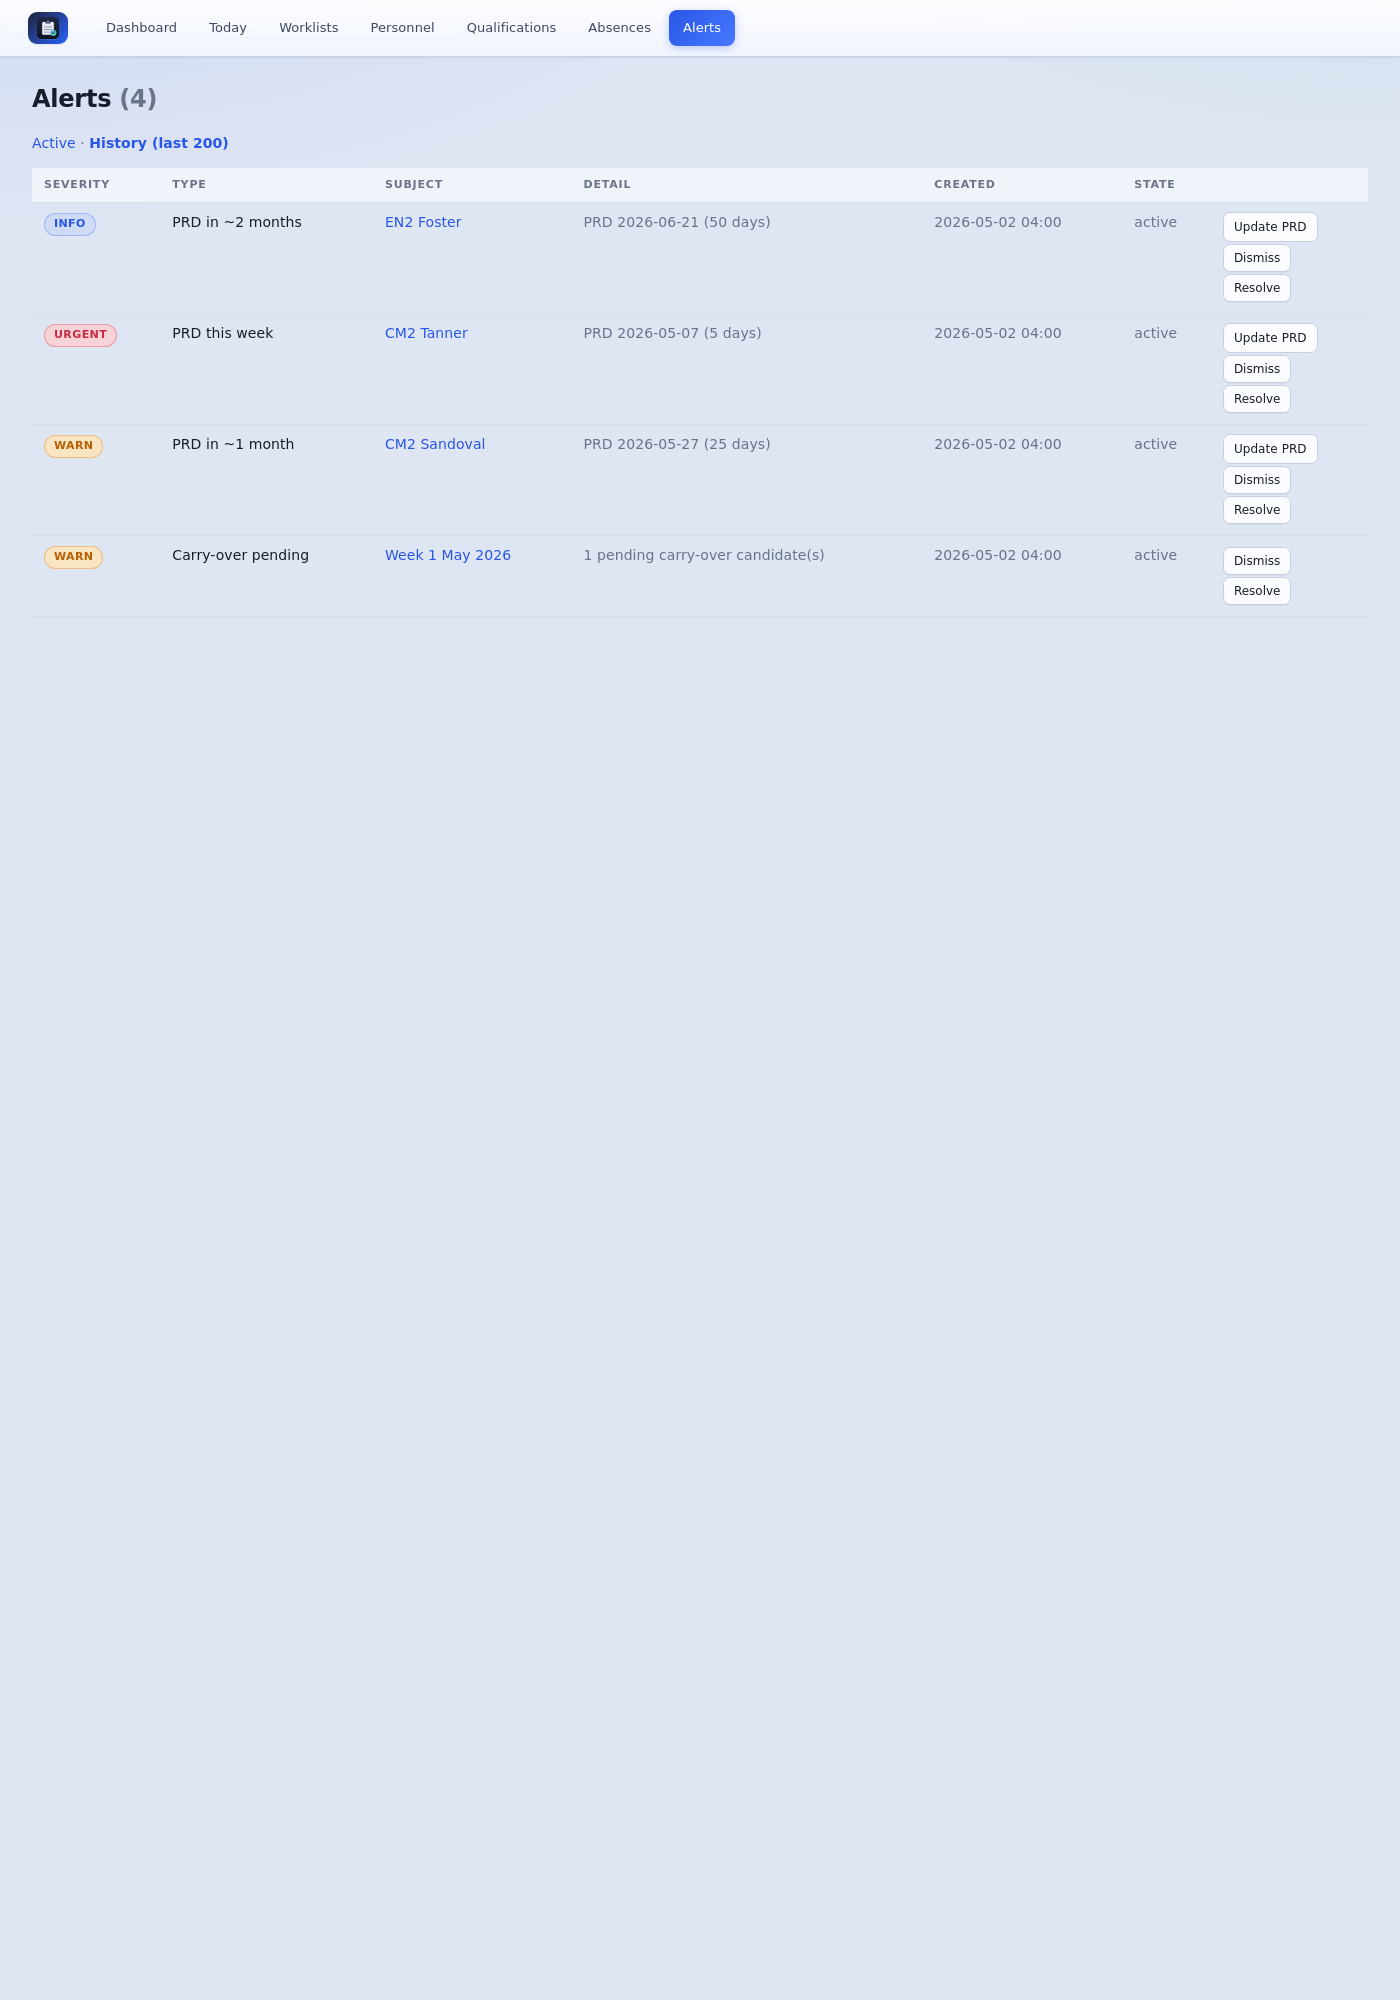
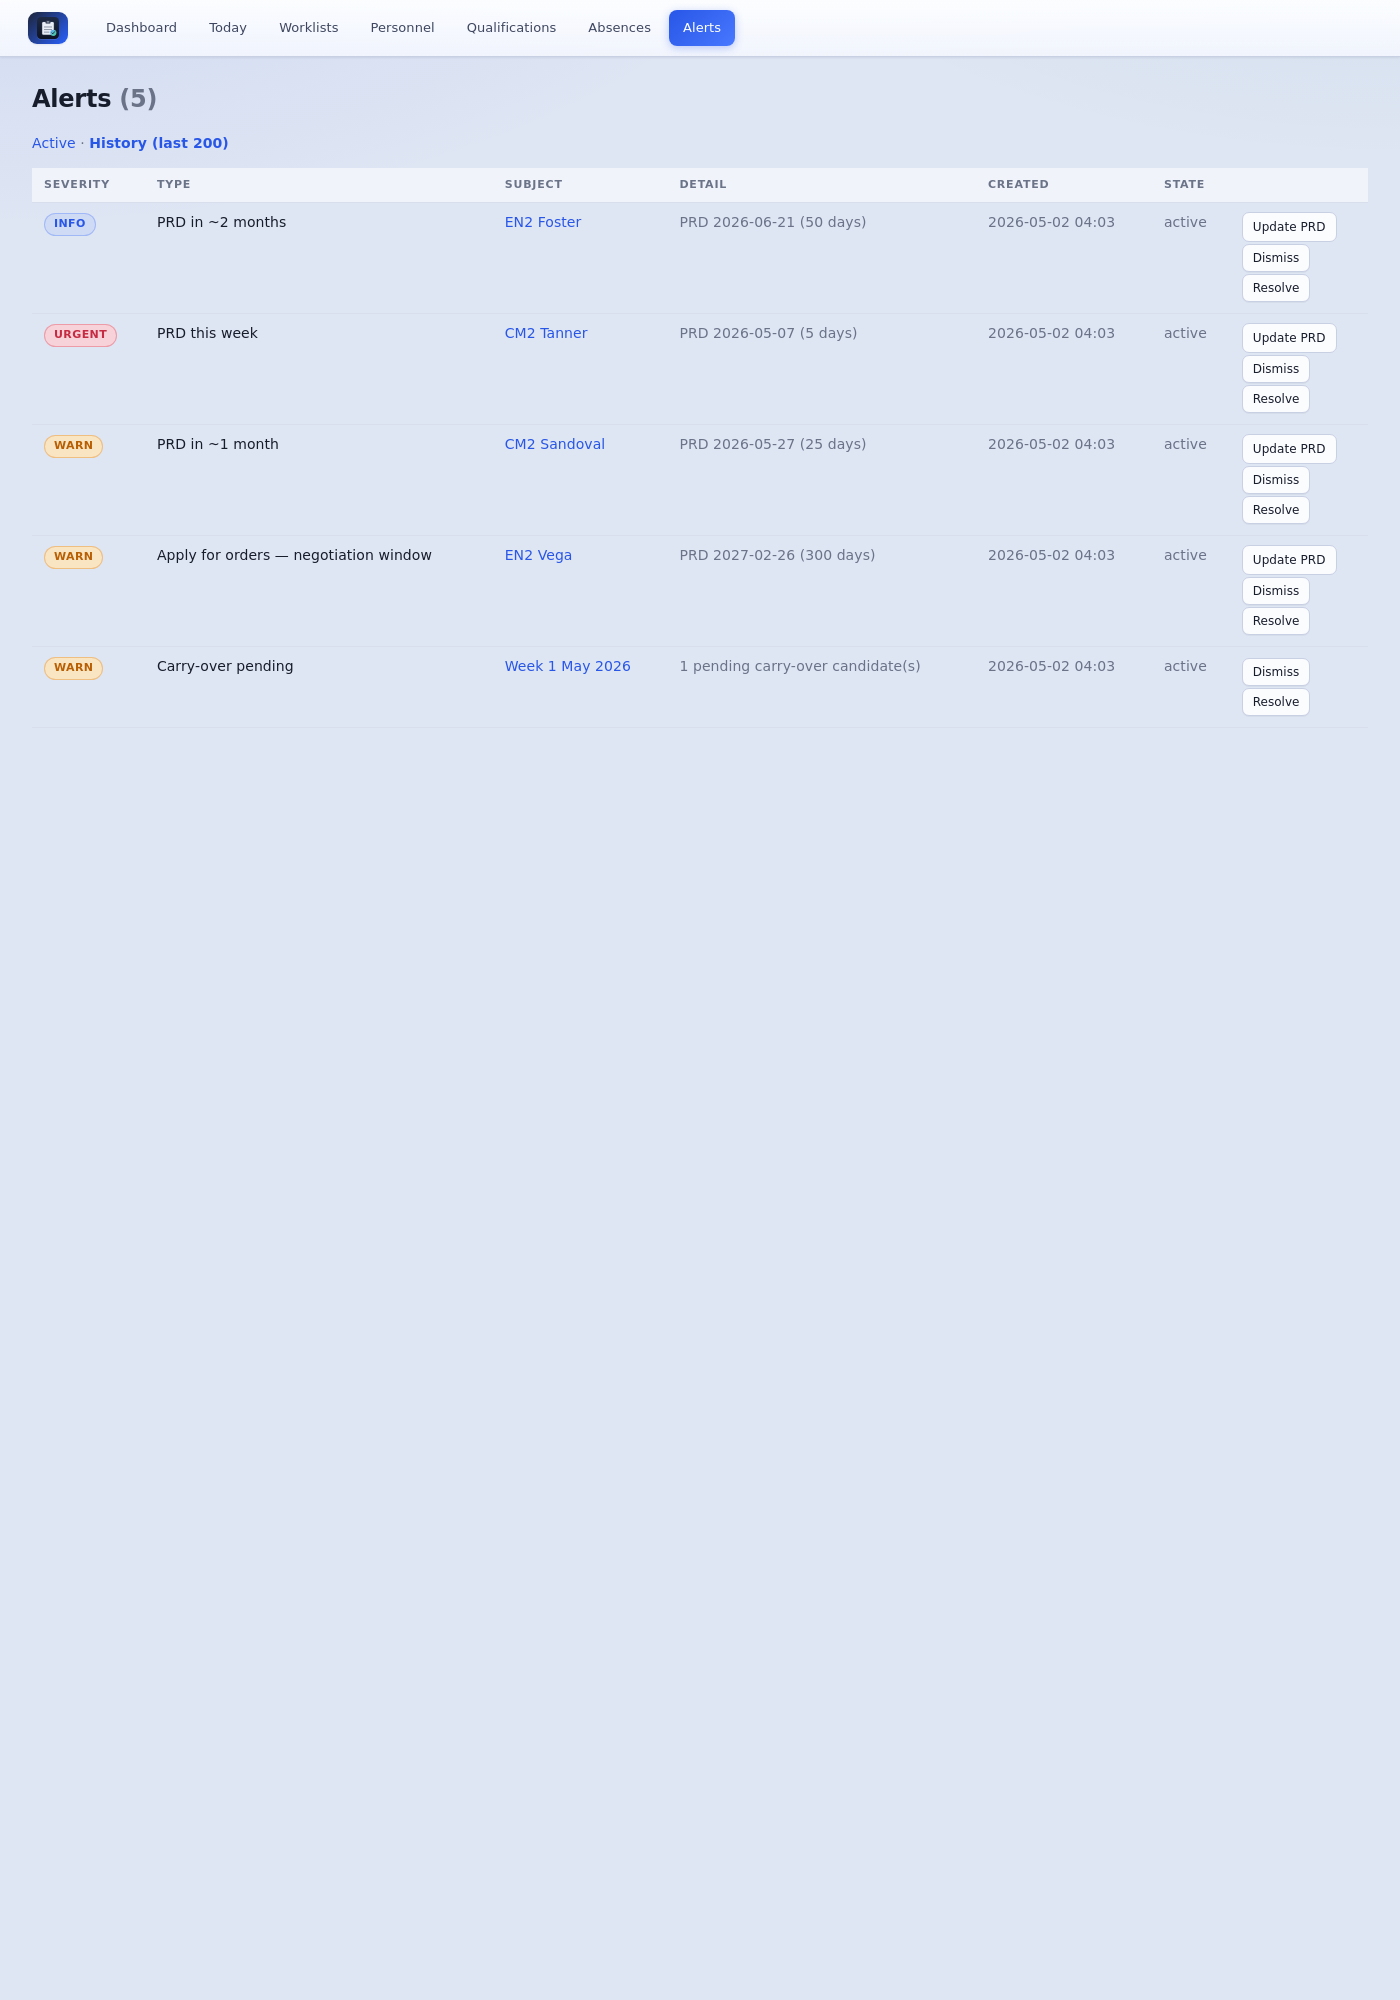
Add 12-month PRD order-negotiation alert
A new prd_orders_window alert fires for personnel whose PRD is between
60 and 365 days out, with the friendly label "Apply for orders —
negotiation window". This sits between the 2-month and 6-month bands so
the existing prd_2mo / prd_1mo / prd_weekly_in_month / prd_passed alerts
keep their meaning. Severity is warn so it surfaces in the dashboard
banner without being styled as urgent.

Demo seeder gains an actor whose PRD lands ~10 months out so the alert
shows up on screenshots.

diff --git a/app/services/alerts.py b/app/services/alerts.py
@@ -92,6 +92,7 @@ def recompute(session: Session, *, today: Optional[date] = None) -> dict[str, in
             select(M.Person).where(M.Person.active == True)  # noqa: E712
         ).all()
     )
+    keep_orders: set = set()
     keep_2mo: set = set()
     keep_1mo: set = set()
     keep_weekly: set = set()
@@ -126,10 +127,18 @@ def recompute(session: Session, *, today: Optional[date] = None) -> dict[str, in
                 session, "prd_2mo", severity="info", person_id=p.id,
                 payload={"key": key, "prd": prd.prd_date.isoformat(), "days": delta},
             )
+        elif delta <= 365:
+            keep_orders.add(key)
+            _ensure_alert(
+                session, "prd_orders_window", severity="warn", person_id=p.id,
+                payload={"key": key, "prd": prd.prd_date.isoformat(), "days": delta},
+            )
+    _resolve_stale(session, "prd_orders_window", keep_orders)
     _resolve_stale(session, "prd_2mo", keep_2mo)
     _resolve_stale(session, "prd_1mo", keep_1mo)
     _resolve_stale(session, "prd_weekly_in_month", keep_weekly)
     _resolve_stale(session, "prd_passed", keep_passed)
+    counts["prd_orders_window"] = len(keep_orders)
     counts["prd_2mo"] = len(keep_2mo)
     counts["prd_1mo"] = len(keep_1mo)
     counts["prd_weekly_in_month"] = len(keep_weekly)

diff --git a/tools/seed_demo.py b/tools/seed_demo.py
@@ -175,6 +175,9 @@ def main() -> None:
                           change_reason="initial", valid_from=today))
         s.add(M.PersonPrd(person_id=by_last["Foster"].id, prd_date=today + timedelta(days=50),
                           change_reason="initial", valid_from=today))
+        # 10 months out — triggers the order negotiation window alert
+        s.add(M.PersonPrd(person_id=by_last["Vega"].id, prd_date=today + timedelta(days=300),
+                          change_reason="initial", valid_from=today))
 
         # Qualifications + per-person status -----------------------------
         quals: dict[str, M.Qualification] = {}

diff --git a/app/routes/alerts.py b/app/routes/alerts.py
@@ -16,6 +16,7 @@ router = APIRouter()
 
 # Internal type slug -> human-readable label shown on the alerts list.
 TYPE_LABELS = {
+    "prd_orders_window": "Apply for orders — negotiation window",
     "prd_2mo": "PRD in ~2 months",
     "prd_1mo": "PRD in ~1 month",
     "prd_weekly_in_month": "PRD this week",
